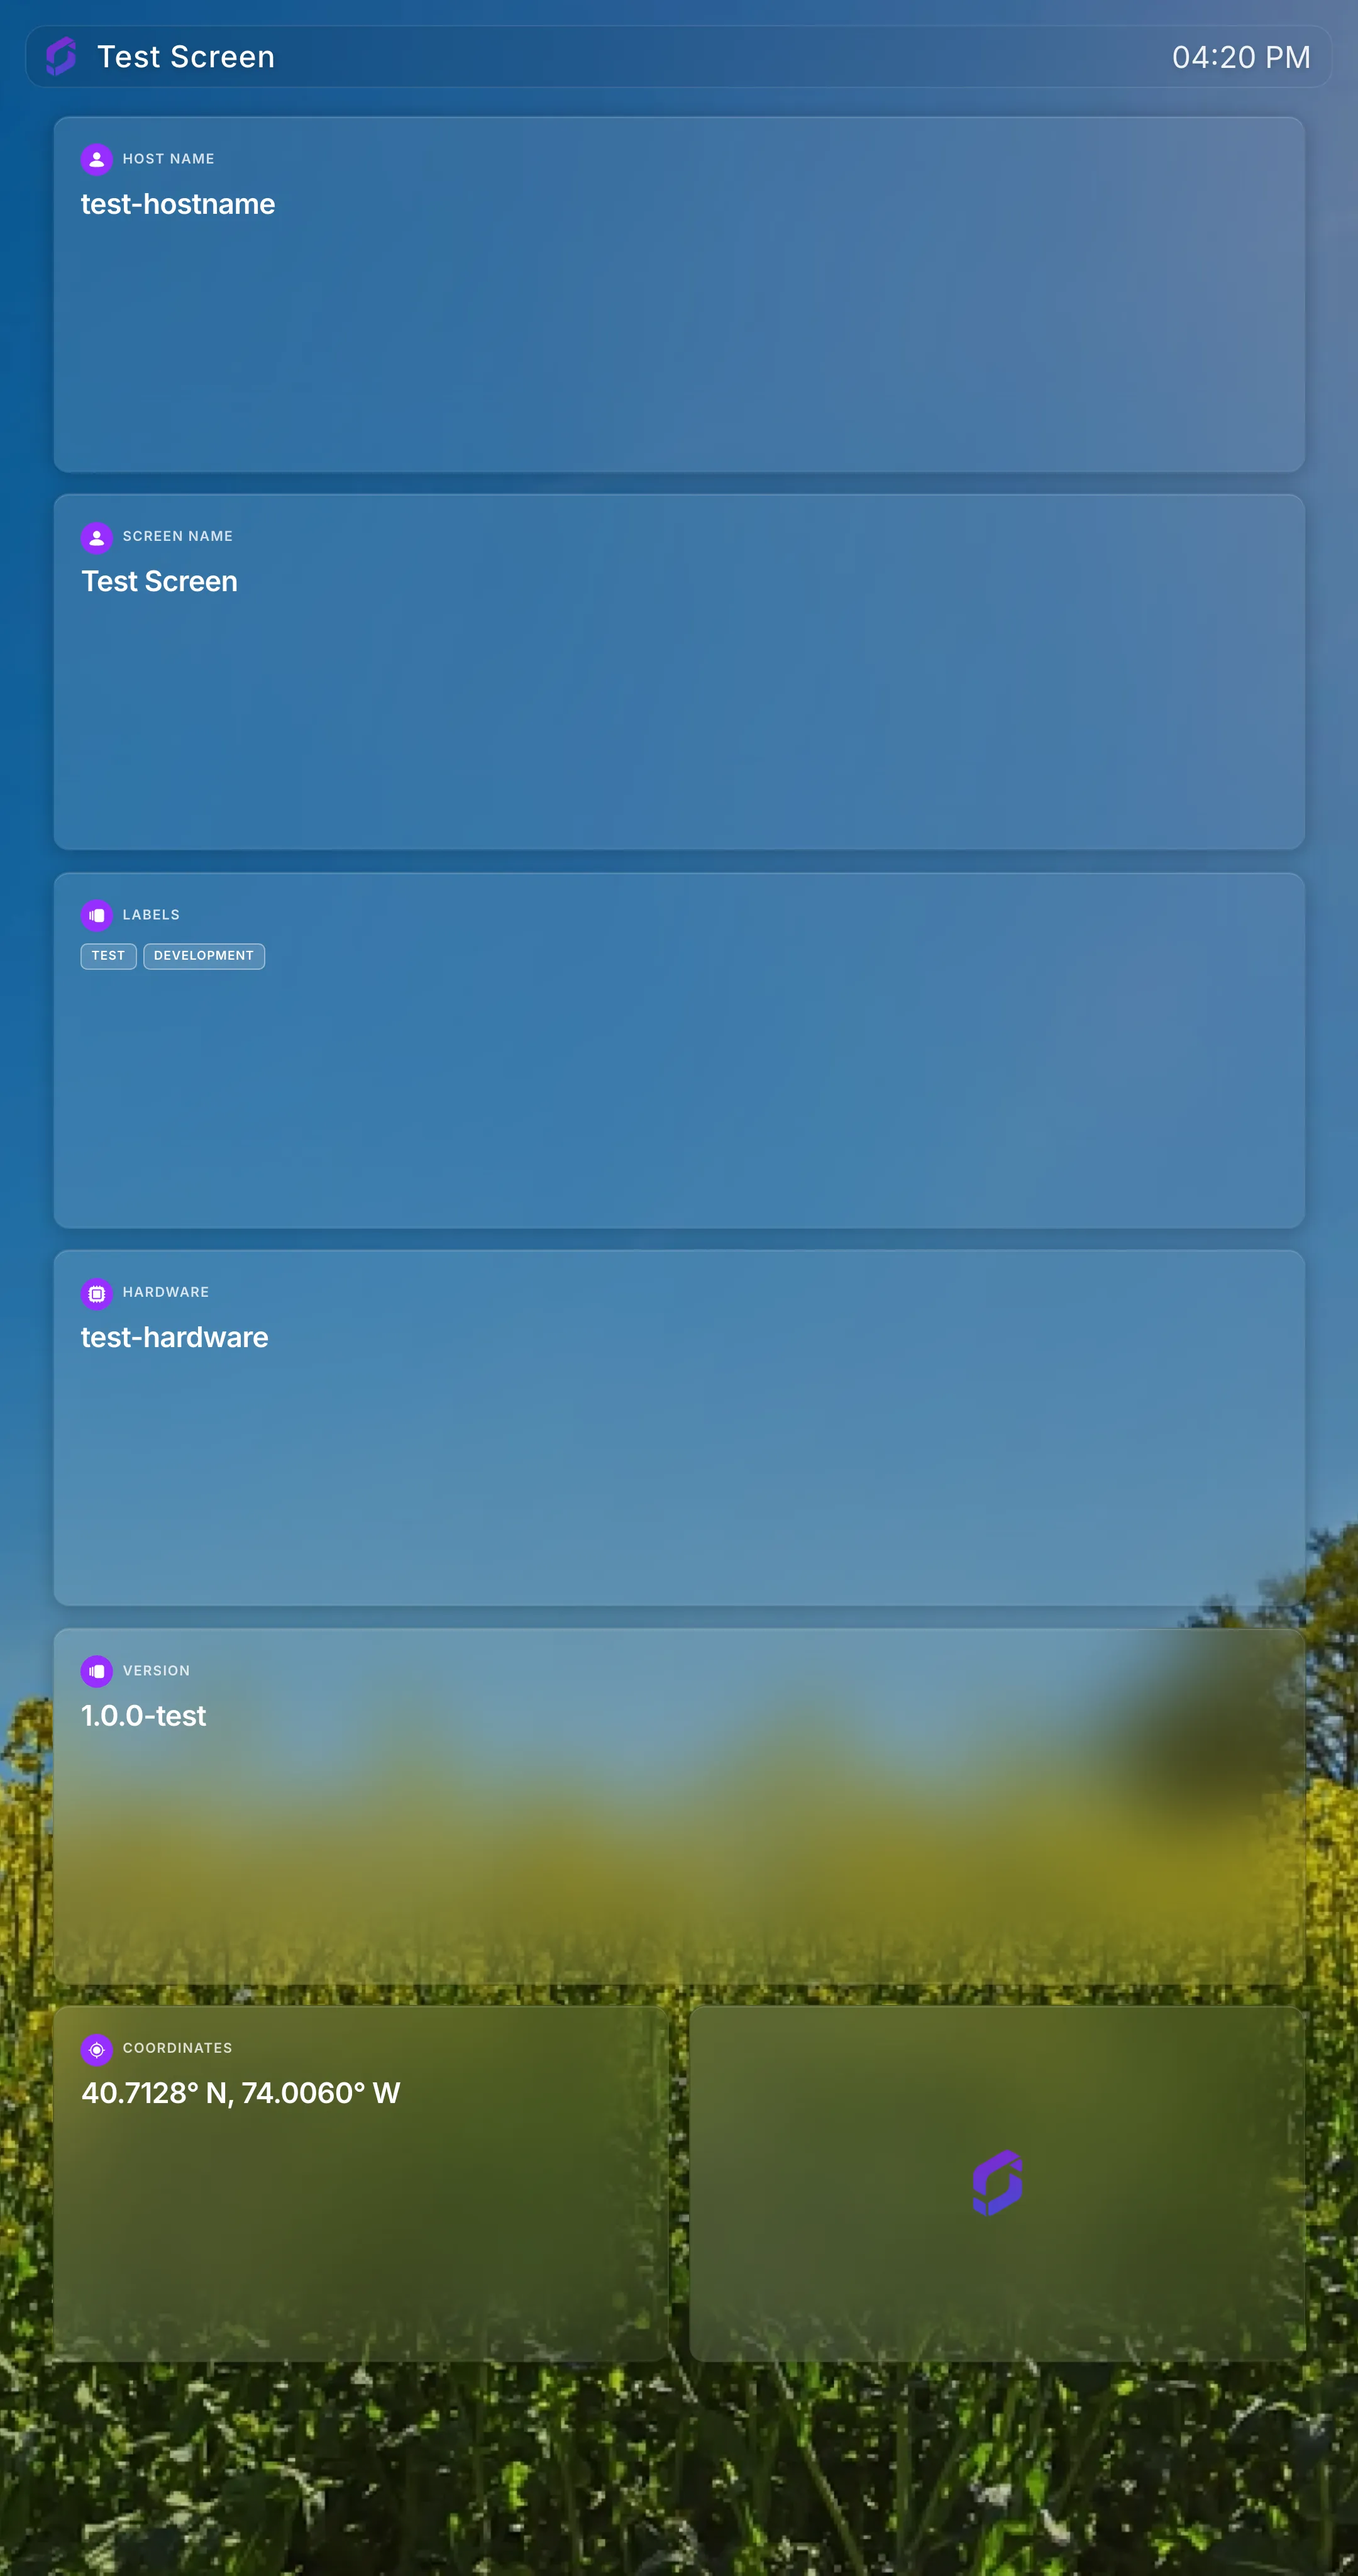
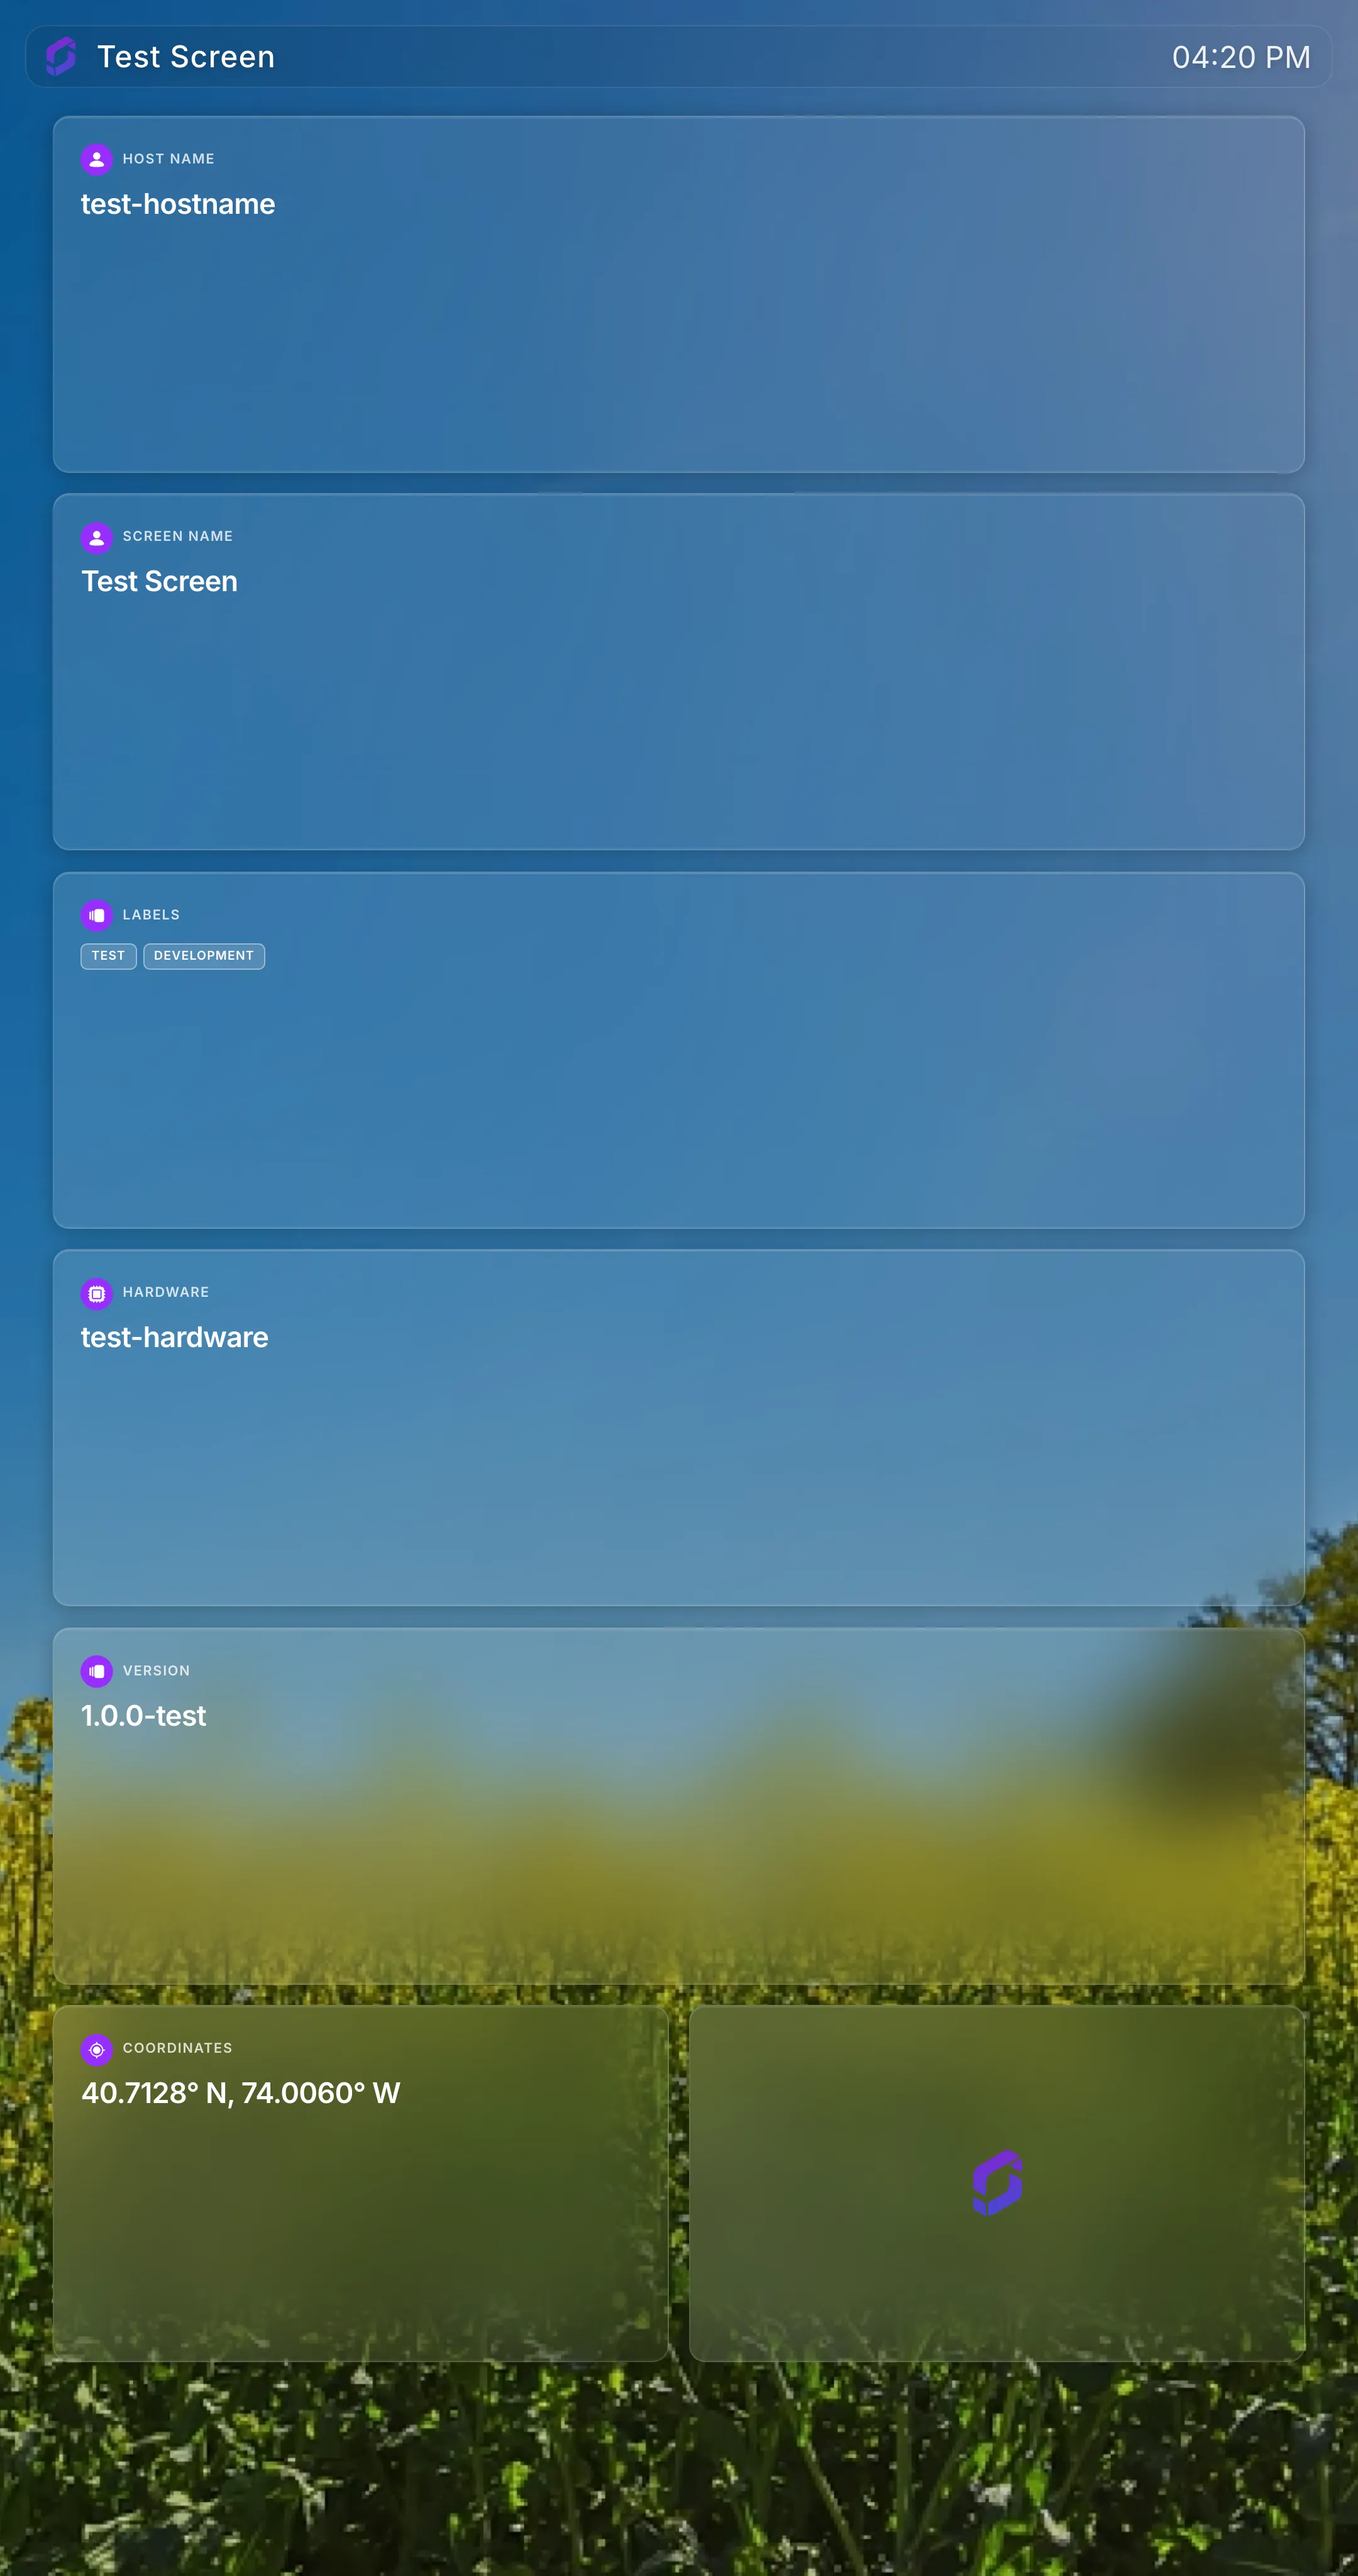
refactor(asset-metadata): remove unused theme setting and CSS variable overrides
- Remove `theme` setting from `screenly.yml`, `screenly_qc.yml`, and README
- Remove unused `setProperty` calls for `--app-bg`, `--card-bg`, `--card-border`,
  `--text-primary`, `--text-secondary`, `--chip-bg`, and `--chip-color`
- Replace with a single `--theme-color-primary` set from branding colors

diff --git a/edge-apps/asset-metadata/src/main.ts b/edge-apps/asset-metadata/src/main.ts
@@ -29,33 +29,10 @@ document.addEventListener('DOMContentLoaded', async () => {
 
   const { colors, logoUrl } = await setupBranding()
 
-  const theme = screenly.settings.theme ?? 'light'
-  document.body.classList.add(`theme-${theme}`)
-
   document.documentElement.style.setProperty(
-    '--app-bg',
-    theme === 'dark' ? '#0D1117' : '#E8ECF1',
+    '--theme-color-primary',
+    colors.primary,
   )
-  document.documentElement.style.setProperty(
-    '--card-bg',
-    theme === 'dark'
-      ? 'rgba(255, 255, 255, 0.07)'
-      : 'rgba(255, 255, 255, 0.88)',
-  )
-  document.documentElement.style.setProperty(
-    '--card-border',
-    theme === 'dark' ? 'rgba(255, 255, 255, 0.1)' : 'rgba(0, 0, 0, 0.06)',
-  )
-  document.documentElement.style.setProperty(
-    '--text-primary',
-    theme === 'dark' ? '#F2F2F3' : '#0D0E1A',
-  )
-  document.documentElement.style.setProperty(
-    '--text-secondary',
-    theme === 'dark' ? '#9CA3AF' : '#6B7280',
-  )
-  document.documentElement.style.setProperty('--chip-bg', colors.primary + '22')
-  document.documentElement.style.setProperty('--chip-color', colors.primary)
 
   const logoImg = document.querySelector<HTMLImageElement>('#brand-logo')!
   if (logoUrl) {

diff --git a/edge-apps/asset-metadata/README.md b/edge-apps/asset-metadata/README.md
@@ -55,7 +55,6 @@ Screenshots are saved to the `screenshots/` directory.
 
 ## Configuration
 
-| Setting          | Description                               | Type     | Default |
-| ---------------- | ----------------------------------------- | -------- | ------- |
-| `display_errors` | Display errors on screen for debugging    | optional | `false` |
-| `theme`          | Visual theme for the app (`light`/`dark`) | required | `light` |
+| Setting          | Description                            | Type     | Default |
+| ---------------- | -------------------------------------- | -------- | ------- |
+| `display_errors` | Display errors on screen for debugging | optional | `false` |
